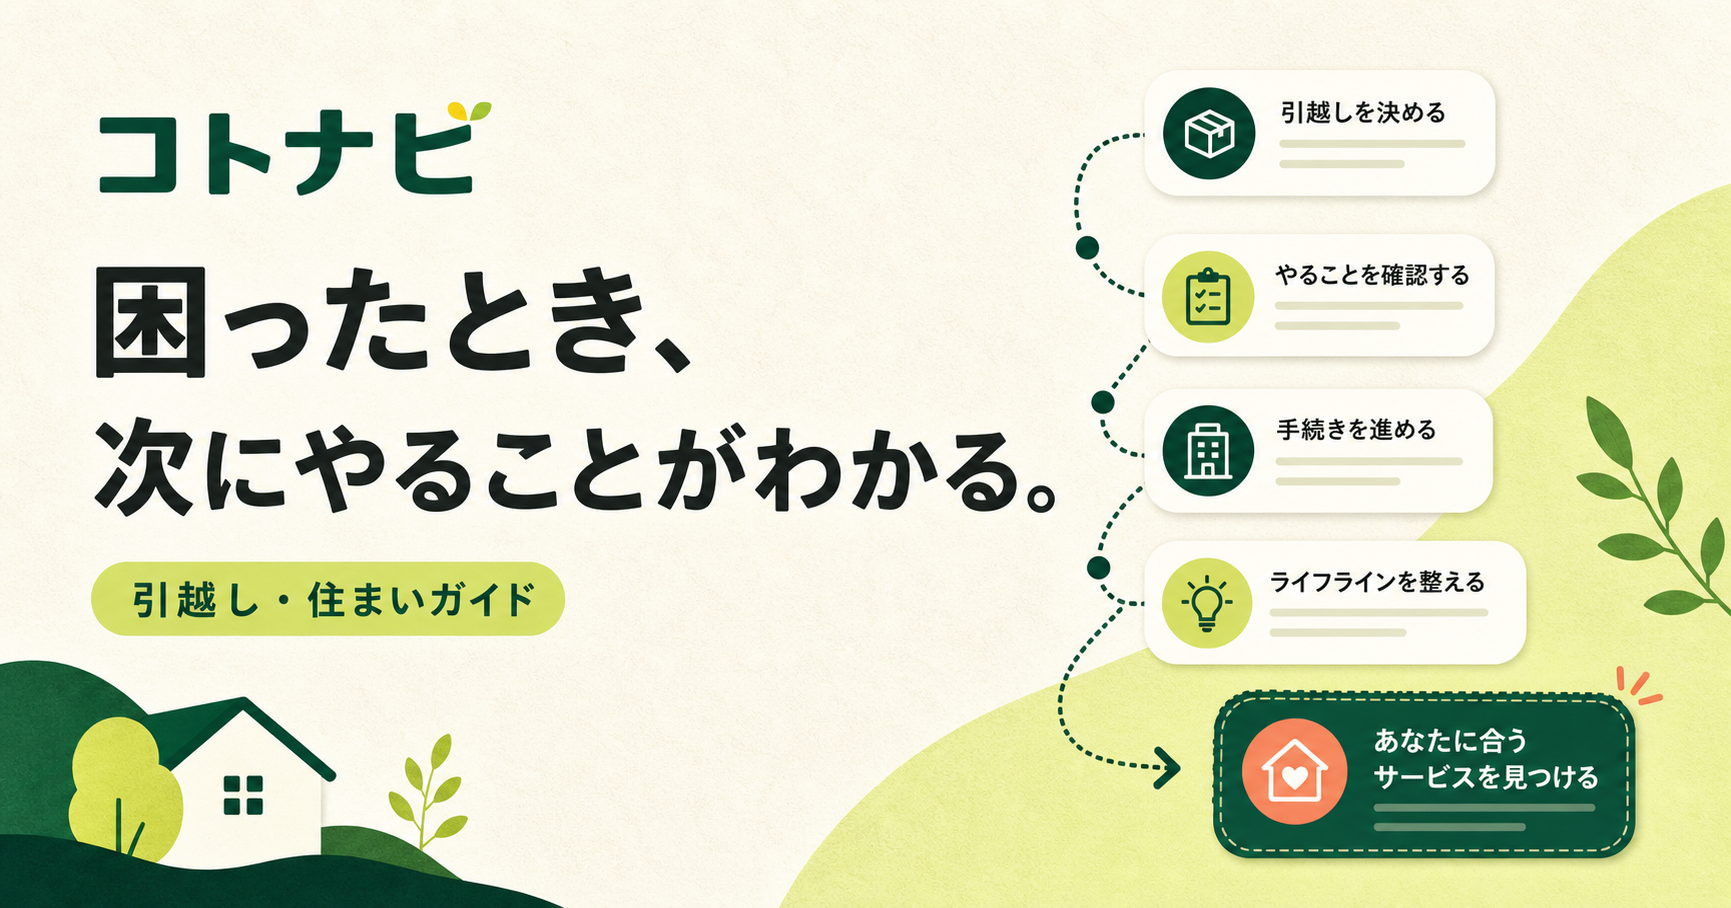
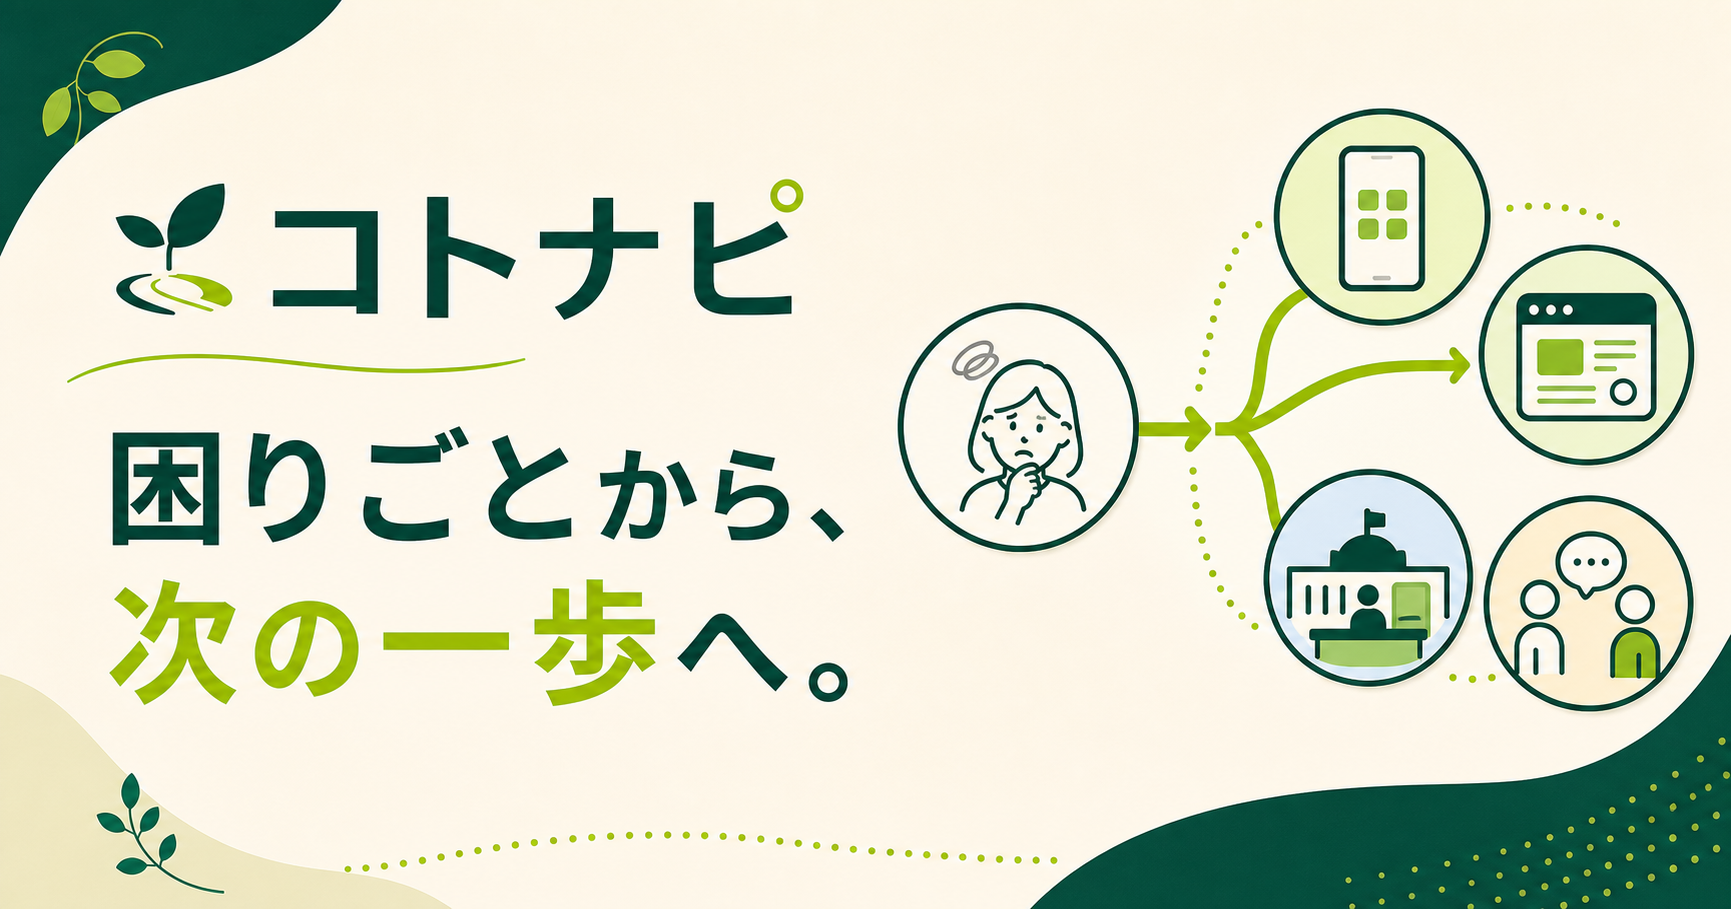
Finalize broad service messaging and social preview

diff --git a/app/globals.css b/app/globals.css
@@ -99,7 +99,7 @@ a { color: inherit; text-decoration: none; }
 .hero::after { width: 260px; height: 260px; right: -120px; bottom: -60px; }
 .hero-kicker { padding: 7px 12px 7px 8px; background: white; border: 1px solid var(--line); border-radius: 99px; font-size: 11px; font-weight: 700; display: flex; align-items: center; gap: 8px; box-shadow: 0 6px 25px rgba(16, 30, 23, .04); }
 .hero-kicker span { background: var(--orange); color: white; padding: 3px 7px; border-radius: 99px; font-size: 9px; letter-spacing: .08em; }
-.hero h1 { font-size: clamp(46px, 6.4vw, 80px); line-height: 1.15; letter-spacing: -.075em; margin: 25px 0 17px; font-weight: 900; }
+.hero h1 { font-size: clamp(46px, 6.4vw, 80px); line-height: 1.15; letter-spacing: -.075em; margin: 25px 0 17px; font-weight: 900; white-space: nowrap; }
 .hero > p { margin: 0; color: var(--muted); font-size: clamp(14px, 1.5vw, 17px); font-weight: 500; }
 .hero-themes { display: flex; flex-wrap: wrap; justify-content: center; gap: 7px; margin-top: 24px; position: relative; z-index: 3; }
 .hero-themes button { border: 1px solid var(--line); background: rgba(255,255,255,.72); border-radius: 99px; padding: 7px 13px 7px 8px; font-size: 10px; font-weight: 700; display: flex; align-items: center; gap: 7px; cursor: pointer; transition: background .2s, transform .2s; }
@@ -188,7 +188,7 @@ footer { background: #15241e; color: white; padding: 48px clamp(24px, 7vw, 110px
 }
 @media (max-width: 780px) {
   .topbar { height: 64px; }.topnav { display: none; }.saved-button span { display: none; }.saved-button { padding: 7px; }
-  .hero { min-height: 520px; padding-top: 60px; }.hero h1 { font-size: 47px; }.search-wrap > input { font-size: 12px; padding-right: 45px; }.search-wrap kbd { display: none; }.trust-row { gap: 9px; flex-wrap: wrap; justify-content: center; }
+  .hero { min-height: 520px; padding-top: 60px; }.hero h1 { font-size: clamp(30px, 6vw, 47px); }.search-wrap > input { font-size: 12px; padding-right: 45px; }.search-wrap kbd { display: none; }.trust-row { gap: 9px; flex-wrap: wrap; justify-content: center; }
   .section-heading { display: block; }.section-heading > p { margin-top: 12px; }
   .navigator { padding: 68px 12px; }.navigator-grid { display: block; }.category-nav { margin-bottom: 12px; }.category-rail { display: flex; overflow-x: auto; padding: 8px; gap: 4px; scrollbar-width: none; }.category-rail::-webkit-scrollbar { display: none; }.category-scroll-hint { display: flex; align-items: center; justify-content: center; gap: 7px; margin: 6px 0 0; color: var(--muted); font-size: 9px; font-weight: 700; }.category-scroll-hint span { color: var(--green); font-size: 12px; }.rail-label, .request-card { display: none; }.category { min-width: 180px; }.category:disabled { display: none; }
   .theme-context { min-height: 58px; }
@@ -204,7 +204,7 @@ footer { background: #15241e; color: white; padding: 48px clamp(24px, 7vw, 110px
   .policy-header { height: 64px; }.policy-hero { padding: 65px 24px 50px; }.policy-content { padding: 20px 20px 70px; }.policy-content > section { grid-template-columns: 1fr; gap: 10px; }.policy-content dl { grid-template-columns: 90px 1fr; }.policy-footer { padding: 25px 20px; }
 }
 @media (max-width: 480px) {
-  .hero h1 { font-size: 40px; }.hero > p { font-size: 12px; }.hero-kicker { font-size: 9px; }.hero-themes button { font-size: 8px; padding-right: 9px; }
+  .hero h1 { font-size: 28px; }.hero > p { font-size: 12px; }.hero-kicker { font-size: 9px; }.hero-themes button { font-size: 8px; padding-right: 9px; }
   .search-results button { grid-template-columns: 78px 1fr 15px; }.search-results button strong { font-size: 11px; }
   .task { grid-template-columns: 29px 1fr; }.task em { display: none; }
   .solutions-heading { align-items: start; }.solutions-heading > span { display: none; }

diff --git a/app/layout.tsx b/app/layout.tsx
@@ -23,13 +23,13 @@ export async function generateMetadata(): Promise<Metadata> {
       title: "コトナビ｜困りごとから、次の一歩へ。",
       description: "解決までのステップと、状況に合うアプリ・Webサービス・公的窓口がわかる。",
       type: "website",
-      images: [{ url: `${origin}/og-v5.png`, width: 1662, height: 946, alt: "コトナビ 困りごとから、次の一歩へ。" }],
+      images: [{ url: `${origin}/og.png`, width: 1731, height: 909, alt: "コトナビ 困りごとから、次の一歩へ。" }],
     },
     twitter: {
       card: "summary_large_image",
       title: "コトナビ｜困りごとから、次の一歩へ。",
       description: "解決までのステップと、状況に合うアプリ・Webサービス・公的窓口がわかる。",
-      images: [`${origin}/og-v5.png`],
+      images: [`${origin}/og.png`],
     },
   };
 }

diff --git a/app/info/page.tsx b/app/info/page.tsx
@@ -65,7 +65,7 @@ export default function InfoPage() {
           <span className="policy-number">06</span><div><h2>お問い合わせ</h2>
           <p>掲載情報の修正、提供終了の報告、掲載・提携の相談は、以下のメールアドレスで受け付けています。</p>
           <p><a className="contact-email" href="mailto:kotonavi.info@proton.me">kotonavi.info@proton.me</a></p>
-          <div className="contact-types"><span>情報修正</span><span>アプリ掲載</span><span>PR・提携相談</span><span>その他</span></div>
+          <div className="contact-types"><span>情報修正</span><span>サービス掲載</span><span>PR・提携相談</span><span>その他</span></div>
           <p className="policy-needed">通常3営業日以内を目安に確認します。内容によっては返信できない場合があります。</p></div>
         </section>
       </div>

diff --git a/app/page.tsx b/app/page.tsx
@@ -1041,7 +1041,7 @@ export default function Home() {
 
       <section className="hero" id="top">
         <div className="hero-kicker"><span>GUIDE</span> 困りごと別ナビ</div>
-        <h1>困りごとから、<br />次の一歩へ。</h1>
+        <h1>困りごとから、次の一歩へ。</h1>
         <p>状況を整理し、役立つアプリ・Webサービス・公的窓口を案内します。</p>
         <div className="hero-themes" aria-label="公開中のテーマ">
           {themes.filter((item) => appProblems.some((problem) => problem.theme === item.id)).map((item) => <button key={item.id} type="button" onClick={() => { selectTheme(item); document.getElementById("guide")?.scrollIntoView({ behavior: "smooth" }); }}><b>{item.mark}</b>{item.label}</button>)}
